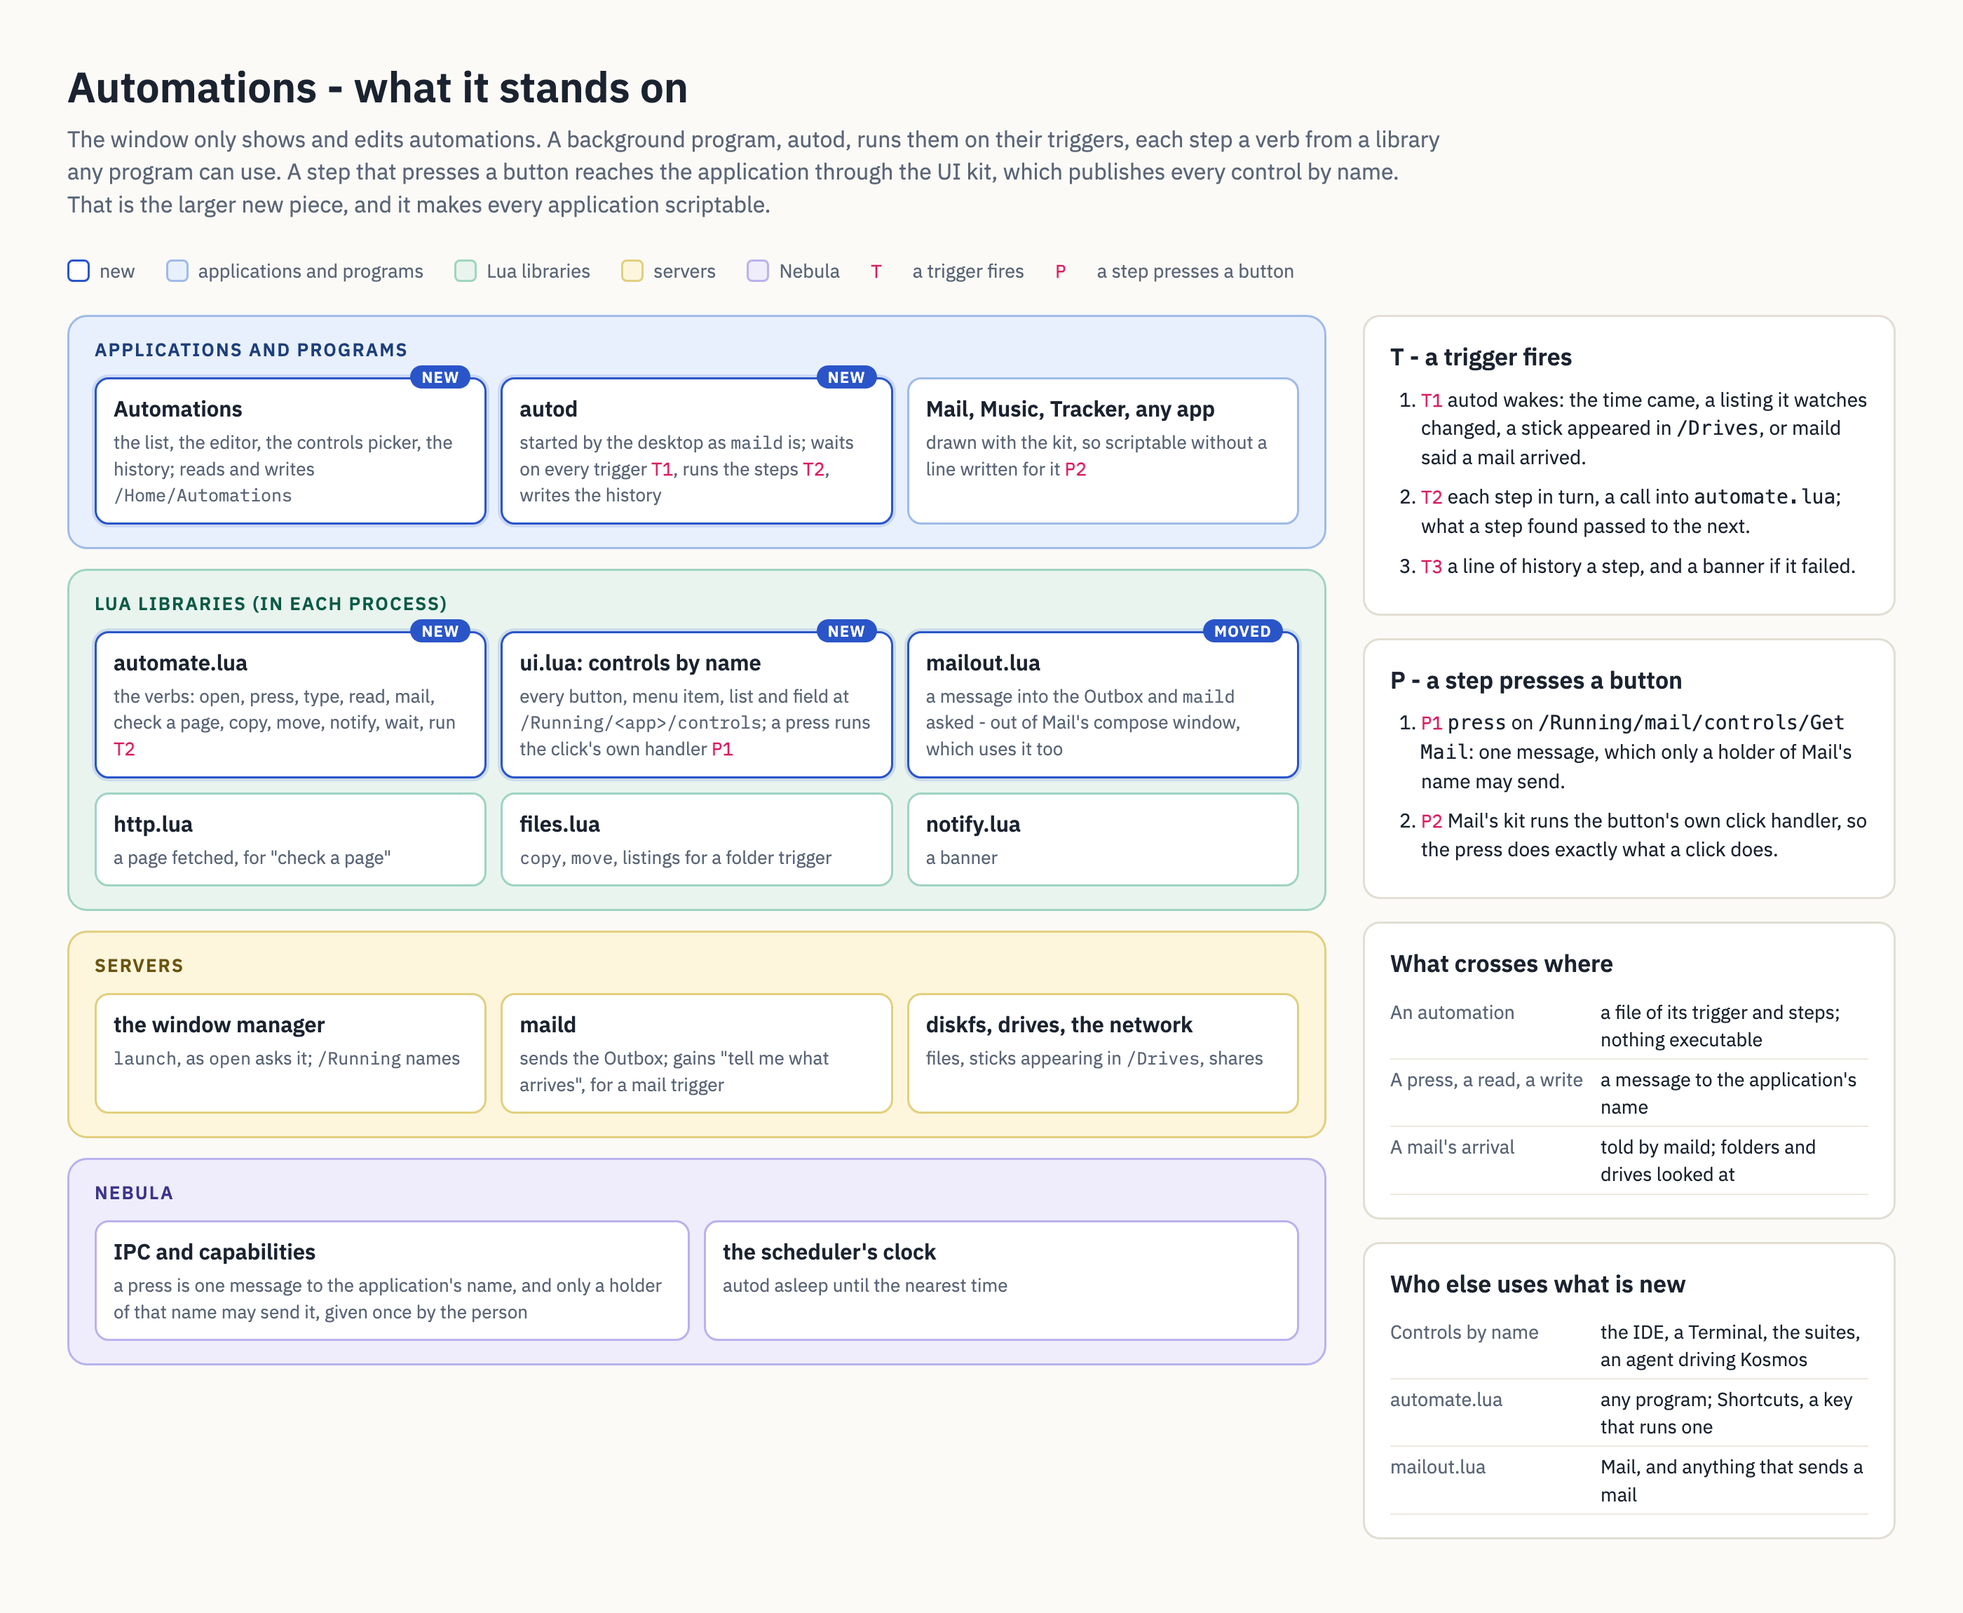
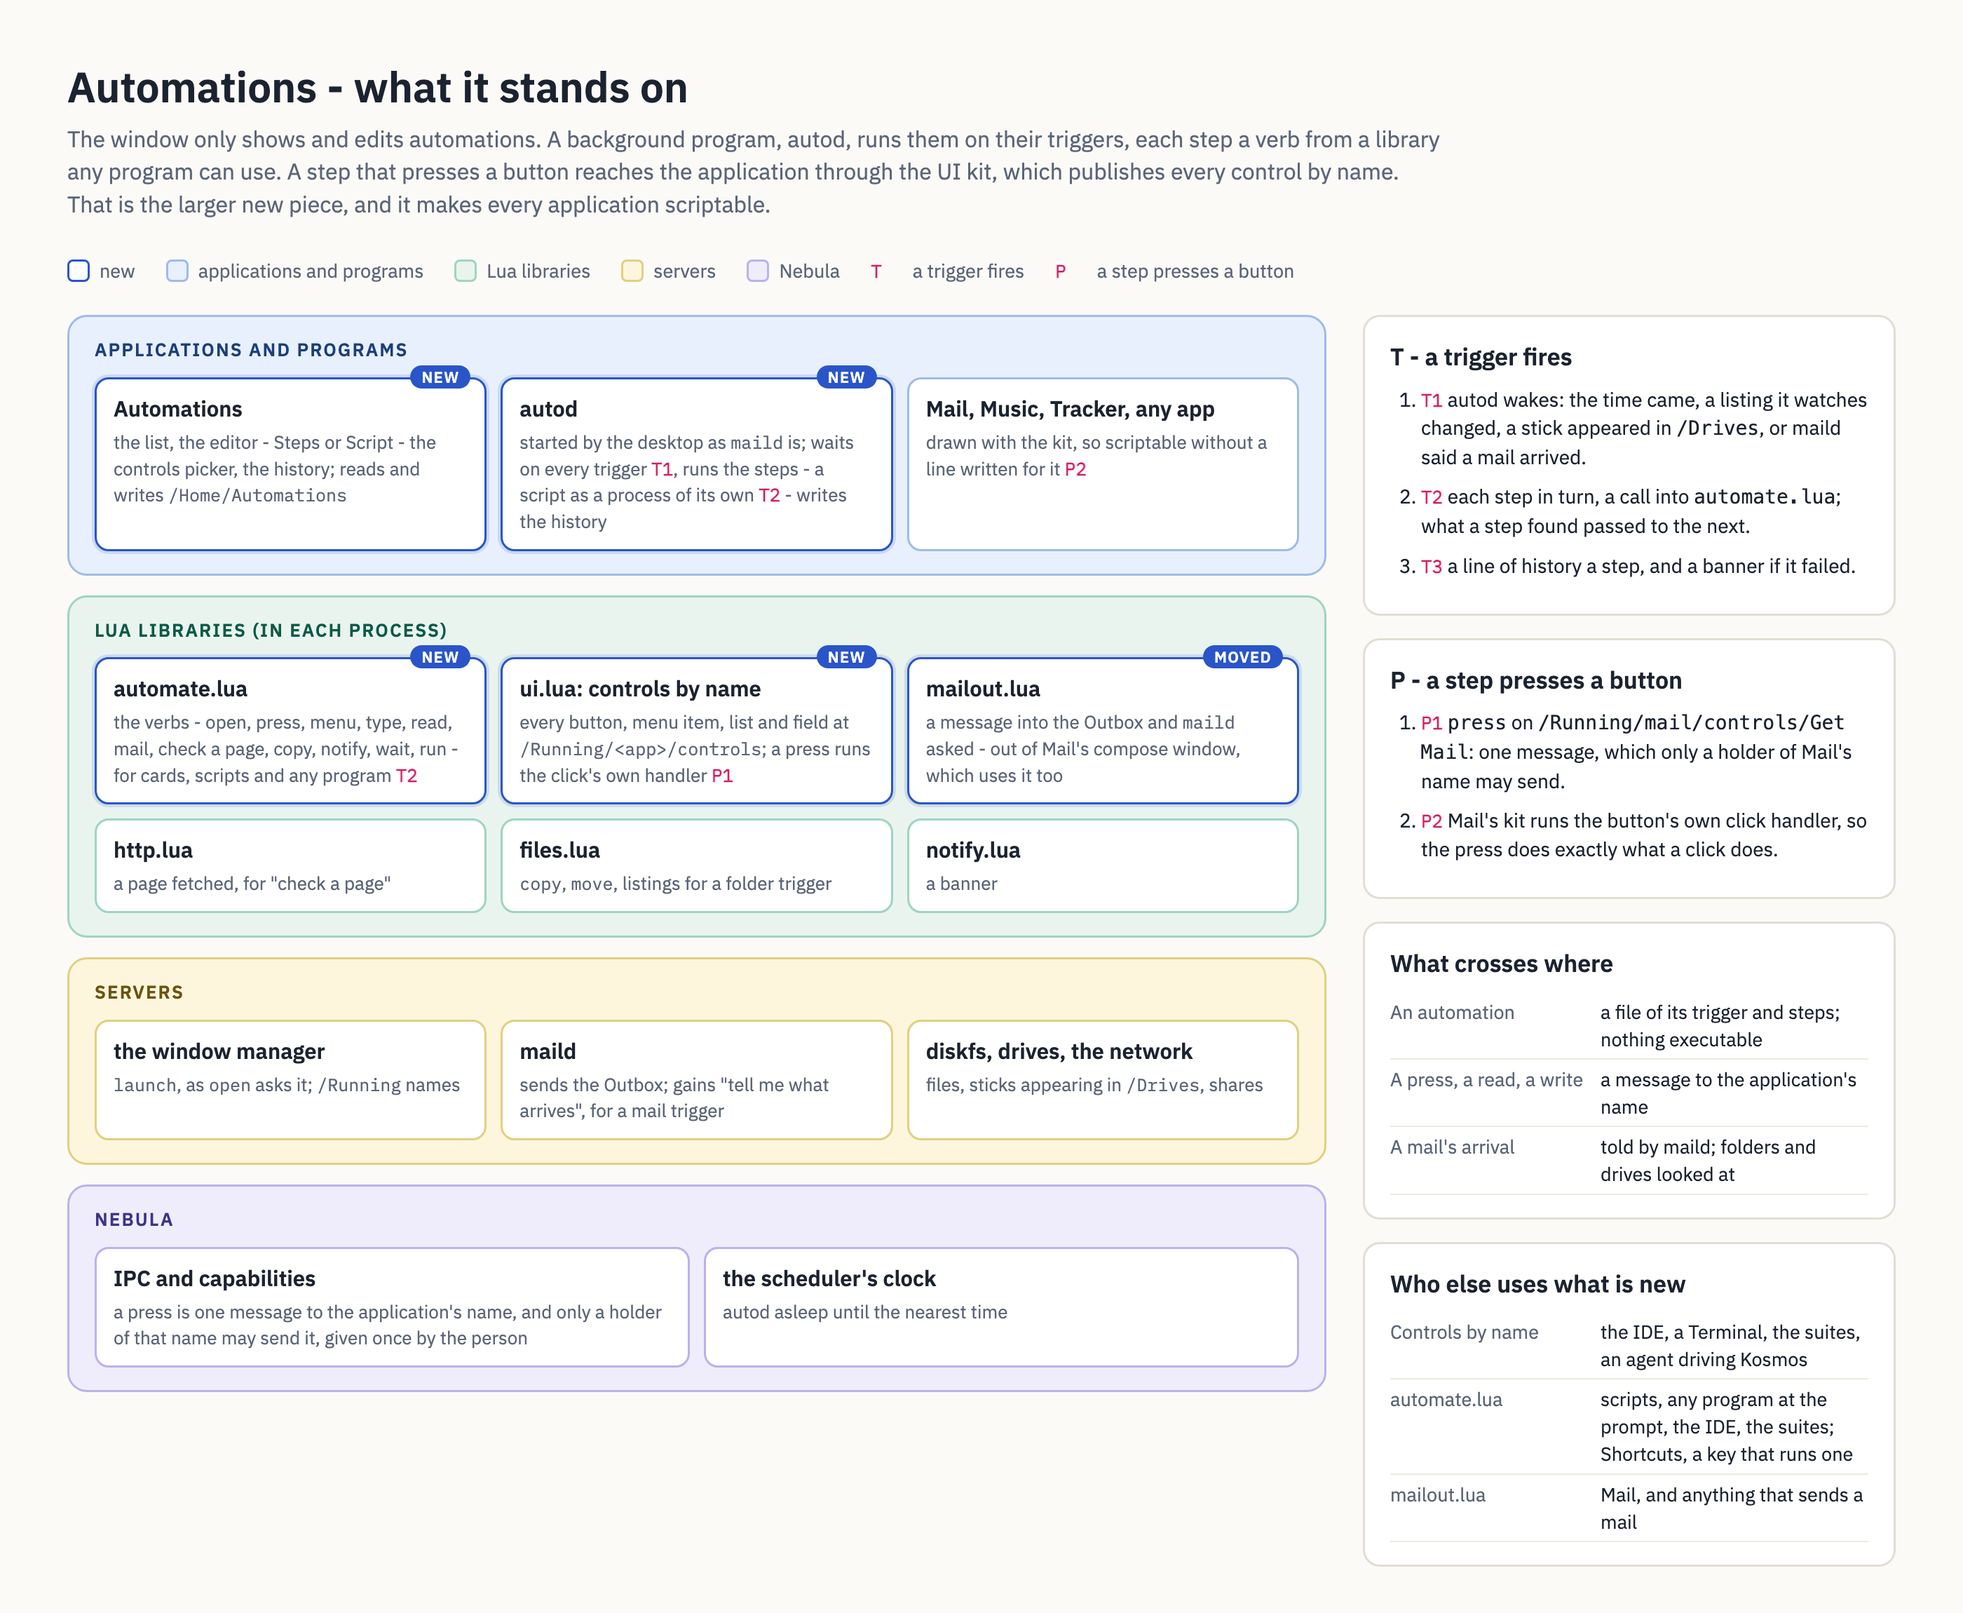
Automations agreed, with Lua scripts beside the cards
Diego agreed the design and added scripts, as Cafesa3D has: an automation
is cards or a Lua script handed `auto` - the same verbs - and nothing
else, run as a process of its own; cards can be copied as a script; and
automate.lua is how any program drives an application by its controls'
names. Step A6; the mockup gains the Script side of the editor.

Changed region(s): [[0.0311, 0.247, 0.6836, 0.8643], [0.8079, 0.8643, 0.9632, 0.957], [0.7146, 0.8952, 0.7768, 0.957]]

diff --git a/docs/automations.html b/docs/automations.html
@@ -104,13 +104,15 @@ table.plain th { font-family: var(--display); font-weight: 600; }
 .ask .body { padding: 18px 20px; max-width: 400px; }
 .ask h4 { margin: 0 0 6px; font-size: 15px; }
 .ask p { color: var(--a-dim); margin: 0 0 16px; font-size: 13px; }
+.code pre { margin: 0; padding: 16px 20px; font: 13px/1.6 var(--mono); color: #d7dde8; background: #181c25; overflow-x: auto; }
+.code .k { color: #c792ea; } .code .s { color: #a5d6a7; } .code .f { color: #82aaff; } .code .c { color: #6b7486; }
 .ask .bt { display: flex; gap: 8px; justify-content: flex-end; }
 </style>
 </head>
 <body>
 <div class="wrap">
   <h1>Automations</h1>
-  <p class="sub">Tasks strung together and run on a trigger: open an application, press one of its buttons, send a mail, look at a web page, copy a file. Each automation is a trigger and a list of steps, chosen from menus and said in sentences. A background program runs them whether the window is open or not. What it is made of, and why every application has to become scriptable first, is in <code>docs/automations.md</code>.</p>
+  <p class="sub">Tasks strung together and run on a trigger: open an application, press one of its buttons, send a mail, look at a web page, copy a file. Each automation is a trigger and a list of steps, chosen from menus and said in sentences, or the same written as a Lua script. A background program runs them whether the window is open or not. What it is made of, and why every application has to become scriptable first, is in <code>docs/automations.md</code>.</p>
   <div class="q"><b>Diego, 12 October 2026:</b> "let's design an app called Automations, which is intended for a user like me to automate certain tasks in the OS. I'm basing my premise that every app is scriptable, meaning we can press a button, we can click an item, we can do whatever we want right now with the UI kit, right? From a script."</div>
 
   <h2>As it opens</h2>
@@ -149,6 +151,37 @@ table.plain th { font-family: var(--display); font-weight: 600; }
   </div>
   </div>
   <p class="cap">On the left, every automation, grouped by what starts it, each with when it last ran and how it went, and a switch. On the right, the one chosen: <b>When</b> is its trigger, and <b>Do</b> is its steps in order, each a card that says in a sentence what it does. A word in a blue box is a choice, made from a menu and never typed as code. After a run, each card says how long its step took. "Run now" runs it with the cards lighting as each step runs.</p>
+
+  <h2>The same automation as a script</h2>
+  <div class="scroller">
+  <div class="win" style="width:1060px">
+    <div class="head"><span class="t">Automations</span><span class="crumb">&middot; Good morning</span>
+      <span class="btn">Steps</span><span class="btn primary">Script</span><span class="btn">&#9654; Run now</span><span class="dots">&middot;&middot;&middot;</span>
+      <span class="lights"><i style="background:#3fb950"></i><i style="background:#f0b429"></i><i style="background:#e5484d"></i></span></div>
+    <div class="code"><pre><span class="c">-- Good morning, as a script.</span>
+<span class="k">return</span> automation {
+  when = auto.<span class="f">at</span>(<span class="s">"8:00"</span>, { <span class="s">"mon"</span>, <span class="s">"tue"</span>, <span class="s">"wed"</span>, <span class="s">"thu"</span>, <span class="s">"fri"</span> }),
+
+  run = <span class="k">function</span>()
+    <span class="k">local</span> mail = auto.<span class="f">open</span>(<span class="s">"Mail"</span>)
+    mail:<span class="f">press</span>(<span class="s">"Get Mail"</span>)
+
+    <span class="k">local</span> page = auto.<span class="f">check</span>(<span class="s">"https://kosmos-os.org/builds"</span>, { has = <span class="s">"-stable"</span> })
+    <span class="k">if not</span> page <span class="k">then return end</span>              <span class="c">-- "stop unless", in Lua</span>
+
+    mail:<span class="f">menu</span>(<span class="s">"Message"</span>, <span class="s">"New Message"</span>)
+    mail:<span class="f">type</span>(<span class="s">"To"</span>, <span class="s">"dcibils@gmail.com"</span>)
+    mail:<span class="f">type</span>(<span class="s">"Subject"</span>, <span class="s">"A stable build: "</span> .. page.title)
+    mail:<span class="f">press</span>(<span class="s">"Send"</span>)
+
+    auto.<span class="f">notify</span>(<span class="s">"Good morning - "</span> .. page.title)
+  <span class="k">end</span>,
+}</pre>
+    <div class="foot" style="margin:0;padding:10px 16px"><span>Last run today at 8:00: done in 2.1 s. &nbsp;&middot;&nbsp; Ctrl+Enter runs it now.</span><span class="btn">History</span></div>
+    </div>
+  </div>
+  </div>
+  <p class="cap"><b>Steps</b> and <b>Script</b> are two ways to write the same automation, as Cafesa3D has panels and a Script editor. A script calls the verbs the cards use, through <code>auto</code>: open an application, press its buttons, choose its menu items and type into its fields by name, check a page, send a mail, copy files, notify. It is handed <code>auto</code> and nothing else, runs as a process of its own so a loop cannot take anything down, and an error comes back with its line. <b>Copy as script</b> in the dots' menu turns cards into these lines. A Lua program at the prompt can <code>use</code> the same library to drive Kosmos.</p>
 
   <h2>A step that presses a button: the controls of an application</h2>
   <div class="row">

diff --git a/docs/automations-architecture.html b/docs/automations-architecture.html
@@ -86,14 +86,14 @@
   <div>
     <div class="layer app"><h2>Applications and programs</h2>
       <div class="row" style="grid-template-columns:1fr 1fr 1fr">
-        <div class="box new"><span class="tag">NEW</span><b>Automations</b><p>the list, the editor, the controls picker, the history; reads and writes <code>/Home/Automations</code></p></div>
-        <div class="box new"><span class="tag">NEW</span><b>autod</b><p>started by the desktop as <code>maild</code> is; waits on every trigger <span class="f">T1</span>, runs the steps <span class="f">T2</span>, writes the history</p></div>
+        <div class="box new"><span class="tag">NEW</span><b>Automations</b><p>the list, the editor - Steps or Script - the controls picker, the history; reads and writes <code>/Home/Automations</code></p></div>
+        <div class="box new"><span class="tag">NEW</span><b>autod</b><p>started by the desktop as <code>maild</code> is; waits on every trigger <span class="f">T1</span>, runs the steps - a script as a process of its own <span class="f">T2</span> - writes the history</p></div>
         <div class="box"><b>Mail, Music, Tracker, any app</b><p>drawn with the kit, so scriptable without a line written for it <span class="f">P2</span></p></div>
       </div>
     </div>
     <div class="layer lua"><h2>Lua libraries (in each process)</h2>
       <div class="row" style="grid-template-columns:1fr 1fr 1fr">
-        <div class="box new"><span class="tag">NEW</span><b>automate.lua</b><p>the verbs: open, press, type, read, mail, check a page, copy, move, notify, wait, run <span class="f">T2</span></p></div>
+        <div class="box new"><span class="tag">NEW</span><b>automate.lua</b><p>the verbs - open, press, menu, type, read, mail, check a page, copy, notify, wait, run - for cards, scripts and any program <span class="f">T2</span></p></div>
         <div class="box new"><span class="tag">NEW</span><b>ui.lua: controls by name</b><p>every button, menu item, list and field at <code>/Running/&lt;app&gt;/controls</code>; a press runs the click's own handler <span class="f">P1</span></p></div>
         <div class="box new"><span class="tag">MOVED</span><b>mailout.lua</b><p>a message into the Outbox and <code>maild</code> asked - out of Mail's compose window, which uses it too</p></div>
       </div>
@@ -131,7 +131,7 @@
       <tr><td>A mail's arrival</td><td>told by maild; folders and drives looked at</td></tr></table></div>
     <div class="card"><h3>Who else uses what is new</h3><table>
       <tr><td>Controls by name</td><td>the IDE, a Terminal, the suites, an agent driving Kosmos</td></tr>
-      <tr><td>automate.lua</td><td>any program; Shortcuts, a key that runs one</td></tr>
+      <tr><td>automate.lua</td><td>scripts, any program at the prompt, the IDE, the suites; Shortcuts, a key that runs one</td></tr>
       <tr><td>mailout.lua</td><td>Mail, and anything that sends a mail</td></tr></table></div>
   </div>
 </div>

diff --git a/docs/automations.md b/docs/automations.md
@@ -77,6 +77,18 @@ want the same door.
   and the reason for any that failed, in words.
 - **Keep them as files** in `/Home/Automations`, one each, which Tracker
   shows and a double-click runs, and which can be copied to another machine.
+- **Write one as a Lua script** instead of cards - Diego, 12 October 2026,
+  agreeing the design: "I would add is a way to script those automations
+  via Lua scripts as well ... like we do with Cafesa 3D, which we have like
+  a design, but also you can actually do that by script", "a script that
+  automates things and a script that you can use to open programs, click
+  buttons, open menus". The editor has **Steps** and **Script**; a script is
+  run on a trigger like any other automation, with the same history.
+- **Turn cards into a script** - "Copy as script" writes the Lua the cards
+  were doing, so an automation can start as cards and grow into code.
+- **Drive Kosmos from any Lua program**: the same verbs, `use`d by a program
+  at the prompt, the IDE or a test, to open applications, press buttons and
+  choose menu items.
 
 ## What it is made of
 
@@ -95,6 +107,8 @@ something another program could use.
 | Checking a web page | `http.lua` | as it is |
 | Copying and moving | `files.copy`, `files.move` | as it is |
 | A banner | `notify.lua`, `/Notifications` | as it is |
+| **A script's editor** | the IDE's editor (`ui.editor`), Lua's colours, errors by line | as it is |
+| **A script run on its own** | `autod` starting a process with the script and `auto`, as the IDE's Run starts one | new, in `autod` |
 | **Running them on their triggers** | **`autod`**, a background program the desktop starts, as it starts `maild`: reads `/Home/Automations`, waits on every trigger at once, runs each automation's steps, writes its history | **new** |
 | A file appearing or a drive arriving | `autod` looking every few seconds at the folder's listing and at `/Drives` - a small cost, and nothing new in a server | new, in `autod` |
 | A mail arriving | `maild`, telling `autod` - its `/Running/maild` name gains one request, "tell me what arrives" | **new**, small |
@@ -111,6 +125,56 @@ frame's or a period's deadline: an automation runs a few steps a minute at
 most. The one cost worth watching is `autod` looking at folders - a listing
 every few seconds - and that is a number to measure on the M700, not a
 reason for C.
+
+## Scripts
+
+A script is the same automation written as Lua, and it calls the same verbs
+the cards do - the cards are a script whose lines are chosen from menus:
+
+```lua
+-- Good morning, as a script.
+return automation {
+  when = auto.at("8:00", { "mon", "tue", "wed", "thu", "fri" }),
+
+  run = function()
+    local mail = auto.open("Mail")
+    mail:press("Get Mail")
+
+    local page = auto.check("https://kosmos-os.org/builds", { has = "-stable" })
+    if not page then return end              -- "stop unless", in Lua
+
+    mail:menu("Message", "New Message")
+    mail:type("To", "dcibils@gmail.com")
+    mail:type("Subject", "A stable build: " .. page.title)
+    mail:press("Send")
+
+    auto.notify("Good morning - " .. page.title)
+  end,
+}
+```
+
+- **What a script is handed**: `auto` - its verbs and the applications it
+  opens or finds (`auto.open`, `auto.app`), each with `press`, `menu`,
+  `type`, `choose` and `read` on its published controls - and Lua's own
+  `string`, `table` and `math`. Not `fs`, `sys` or `use`: as a Cafesa3D
+  script is handed the scene and nothing else (`roadmap.md`, Cafesa3D
+  scripting), what it was not handed it cannot reach. A step that copies a
+  file goes through `auto.copy`, which is what lets the history say what a
+  script did and the consent step mean something.
+- **Each run is a process of its own**, started by `autod` with the script
+  and `auto`: a script that loops for ever or faults ends itself and is
+  written in the history with its line, and `autod` and every other
+  automation go on.
+- **Errors come back with their line**, in the history and under the editor,
+  as the IDE shows them.
+- **Copy as script**: every card is one line of a script, so the cards can
+  always be written as one; a script cannot always be shown as cards - a
+  loop has no card - so the editor shows a script as a script from then on.
+- **The same verbs outside an automation**: `use("/Kosmos/Libraries/
+  automate.lua")` in a program gives the same `auto`, with the program's
+  own powers beside it - so a program at the prompt, the IDE's console or a
+  suite can open Mail and press Send by name. A program pressing another
+  application's controls asks as an automation does, the first time.
 
 ## Publishing every control
 
@@ -167,6 +231,10 @@ nothing beside a Tracker window that is open.
 4. **A4 - the window**: as drawn - the list, the editor, the controls
    picker, the history.
 5. **A5 - consent**: the first press in an application asks, and remembers.
+6. **A6 - scripts**: the Script side of the editor, a script run as a
+   process of its own on its trigger, Copy as script; and `automate.lua`
+   documented as the way any program drives an application, with the IDE's
+   tutorial gaining a lesson that opens Calculator and presses its buttons.
 
 ## For Diego to decide
 

diff --git a/docs/roadmap.md b/docs/roadmap.md
@@ -418,6 +418,14 @@ Designed before it is built: feature set, mockup, architecture, diagram.
 **Drawn the same day**, for Diego to agree: `docs/automations.md`,
 `docs/automations.html`, `docs/automations-architecture.png` - steps A1
 (every control published by name, the kit's) to A5 (consent).
+**Agreed, with scripts** - Diego, the same day: "The design is right for
+automations. What I would add is a way to script those automations via Lua
+scripts as well", "like we do with Cafesa 3D", "a script that automates
+things and a script that you can use to open programs, click buttons, open
+menus". So an automation is cards or a Lua script handed `auto` - the same
+verbs - and nothing else, run as a process of its own; cards can be copied
+as a script; and `automate.lua` is how any program drives an application
+by its controls' names. Step A6.
 
 **Network Monitor, an app** - Diego, 12 October 2026: "i realizsed we need
 network monitor app as well to see network input and output". What goes in
